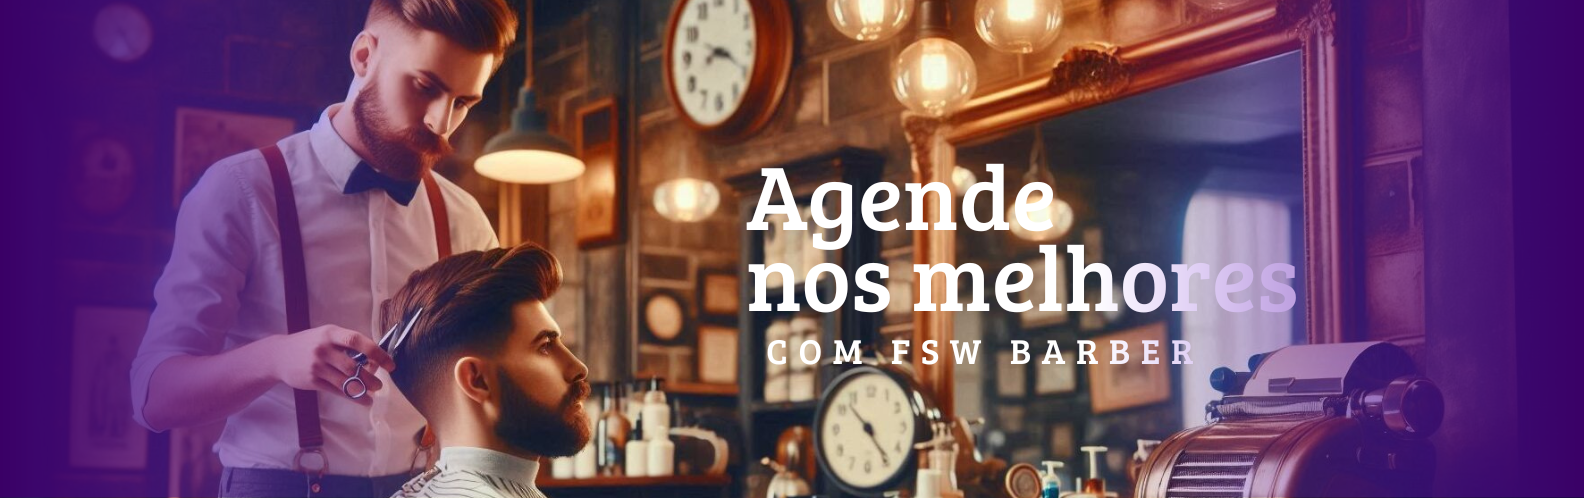
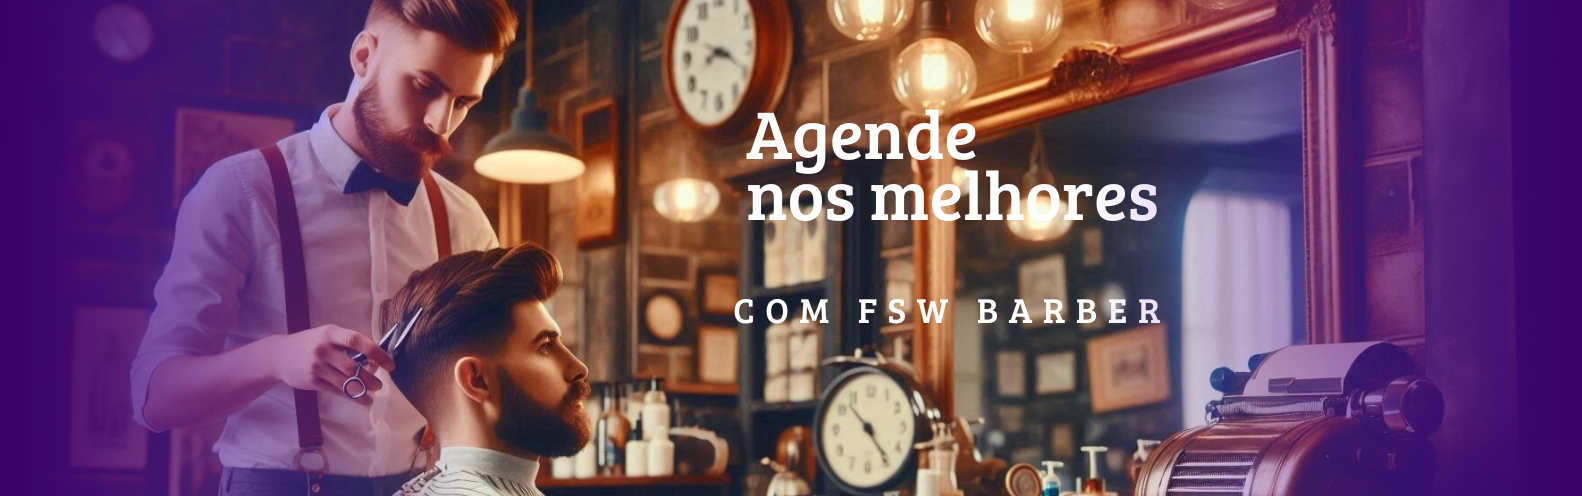
feat: add booking item :rocket:

diff --git a/app/page.tsx b/app/page.tsx
@@ -5,6 +5,8 @@ import { Input } from "./_components/ui/input";
 import Image from "next/image";
 import Mobile from "../public/image/banner-mobile.png";
 import { Card, CardContent } from "./_components/ui/card";
+import { Badge } from "./_components/ui/badge";
+import { Avatar, AvatarImage } from "./_components/ui/avatar";
 
 const Home = () => {
   return (
@@ -29,7 +31,7 @@ const Home = () => {
             className=" w-full object-cover"
           />
         </div> */}
-        <div className="relative mt-6 h-[450px] w-full">
+        <div className="relative mt-6 h-[400px] w-full">
           <picture>
             <source
               srcSet="/image/banner-desktop.png"
@@ -44,11 +46,25 @@ const Home = () => {
           </picture>
         </div>
         {/* AGENDAMENTO */}
-        <Card className="">
-          <CardContent>
-            <h3 className="text-lg font-bold">Agendamento</h3>
-            <p>Selecione um horário para começar</p>
-            <Button className="w-full">Agendar</Button>
+        <Card className="mt-6">
+          <CardContent className="flex flex-wrap justify-between p-0">
+            {/* ESQUERDA */}
+            <div className="flex flex-col gap-2 py-5 pl-5">
+              <Badge className="w-fit">Confirmado</Badge>
+              <h3 className="font-semibold">Corte de Cabelo</h3>
+              <div className="flex items-center gap-2">
+                <Avatar className="h-6 w-6">
+                  <AvatarImage src="https://utfs.io/f/c97a2dc9-cf62-468b-a851-bfd2bdde775f-16p.png" />
+                </Avatar>
+                <p className="text-sm">Barbearia FSW</p>
+              </div>
+            </div>
+            {/* DIREITA  */}
+            <div className="flex flex-col items-center justify-center border-l-2 border-solid px-5">
+              <p className="text-sm">Agosto</p>
+              <p className="text-2xl">05</p>
+              <p className="text-sm">20:00</p>
+            </div>
           </CardContent>
         </Card>
       </div>

diff --git a/app/_components/ui/avatar.tsx b/app/_components/ui/avatar.tsx
@@ -1,0 +1,50 @@
+"use client";
+
+import * as React from "react";
+import * as AvatarPrimitive from "@radix-ui/react-avatar";
+
+import { cn } from "@/app/_lib/utils";
+
+const Avatar = React.forwardRef<
+  React.ElementRef<typeof AvatarPrimitive.Root>,
+  React.ComponentPropsWithoutRef<typeof AvatarPrimitive.Root>
+>(({ className, ...props }, ref) => (
+  <AvatarPrimitive.Root
+    ref={ref}
+    className={cn(
+      "relative flex h-10 w-10 shrink-0 overflow-hidden rounded-full",
+      className
+    )}
+    {...props}
+  />
+));
+Avatar.displayName = AvatarPrimitive.Root.displayName;
+
+const AvatarImage = React.forwardRef<
+  React.ElementRef<typeof AvatarPrimitive.Image>,
+  React.ComponentPropsWithoutRef<typeof AvatarPrimitive.Image>
+>(({ className, ...props }, ref) => (
+  <AvatarPrimitive.Image
+    ref={ref}
+    className={cn("aspect-square h-full w-full", className)}
+    {...props}
+  />
+));
+AvatarImage.displayName = AvatarPrimitive.Image.displayName;
+
+const AvatarFallback = React.forwardRef<
+  React.ElementRef<typeof AvatarPrimitive.Fallback>,
+  React.ComponentPropsWithoutRef<typeof AvatarPrimitive.Fallback>
+>(({ className, ...props }, ref) => (
+  <AvatarPrimitive.Fallback
+    ref={ref}
+    className={cn(
+      "flex h-full w-full items-center justify-center rounded-full bg-muted",
+      className
+    )}
+    {...props}
+  />
+));
+AvatarFallback.displayName = AvatarPrimitive.Fallback.displayName;
+
+export { Avatar, AvatarImage, AvatarFallback };
